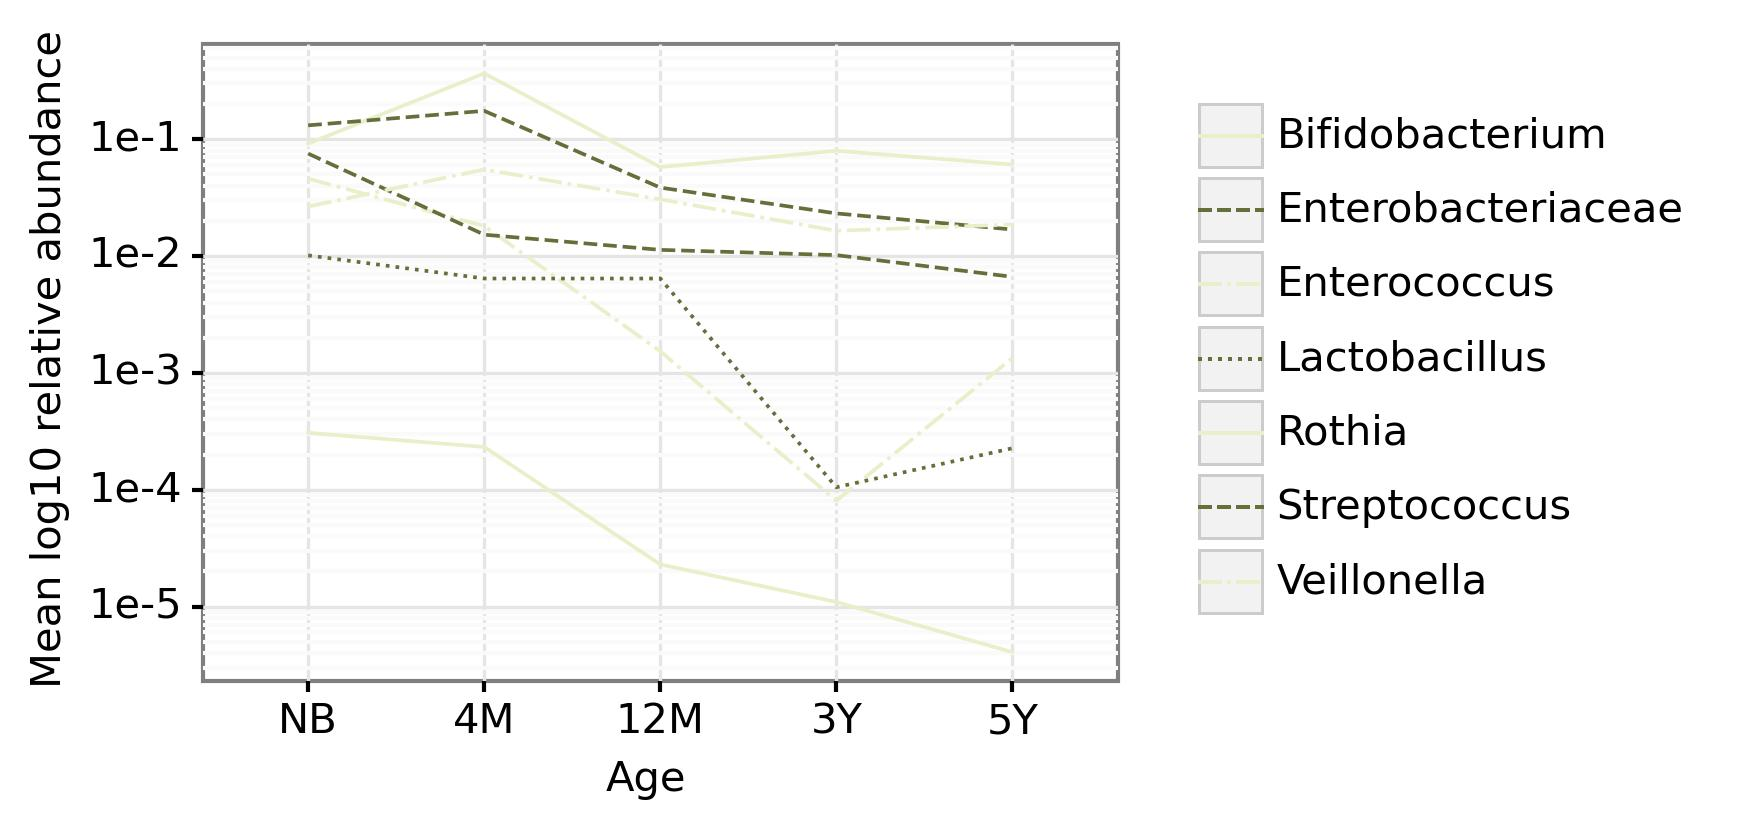
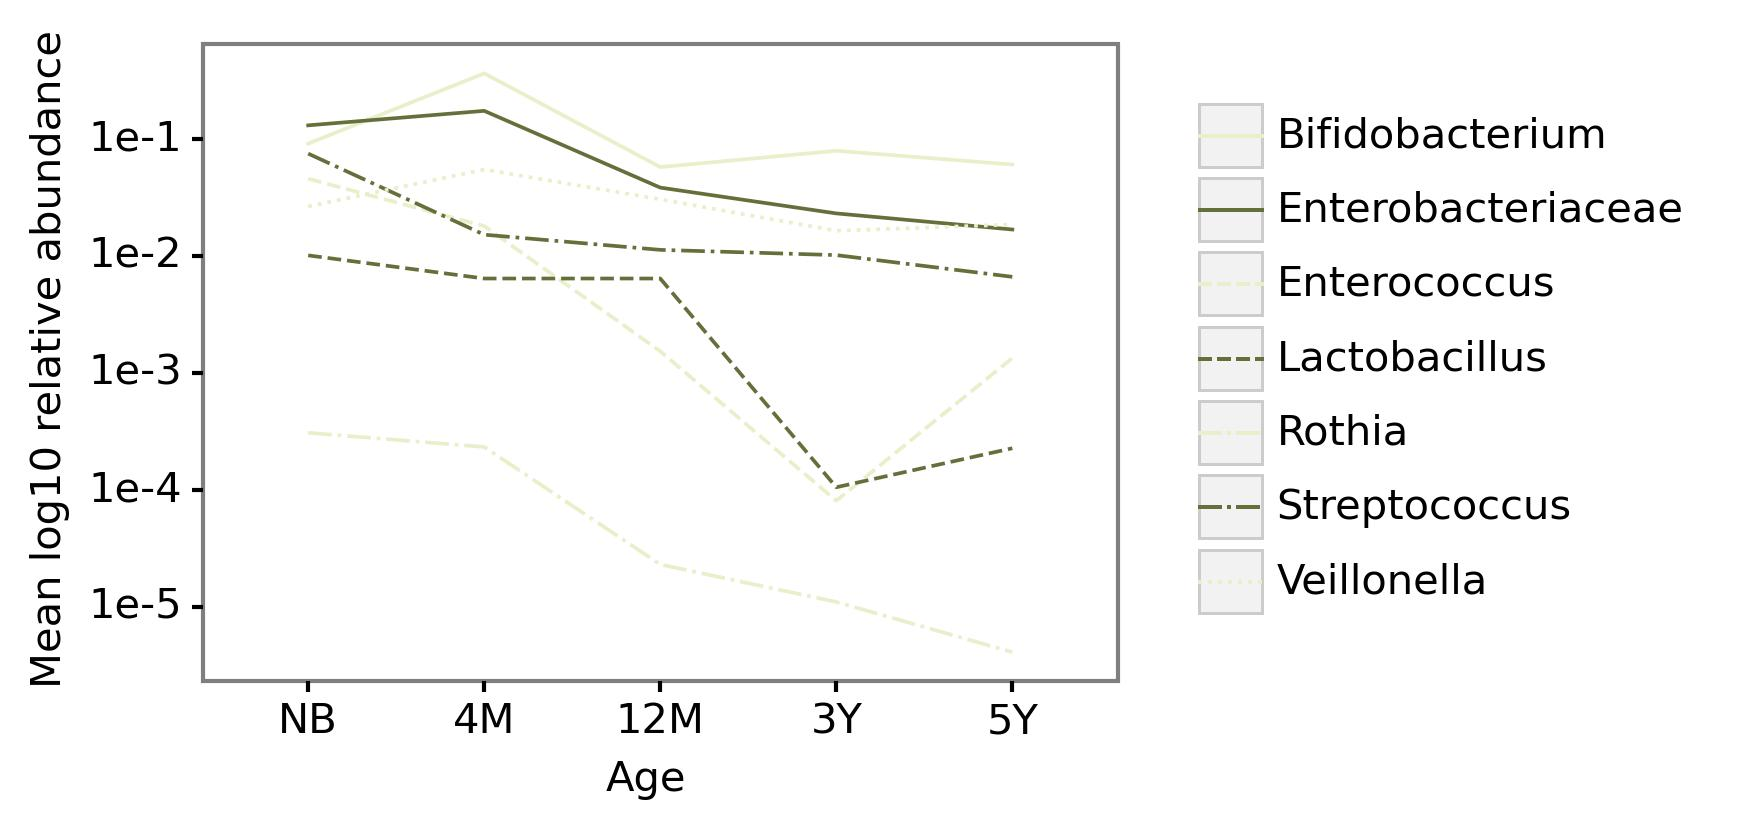
upgrade genera

diff --git a/genera_analysis/genera.py b/genera_analysis/genera.py
@@ -89,13 +89,15 @@ plot_1 = (ggplot(plot_df_1, aes(x = 'Age', y = 'Abundance', linetype = 'index', 
             geom_line() +
             scale_y_log10() +
             scale_color_manual(['#E7F0CA', '#63703C', '#E7F0CA', '#63703C', '#E7F0CA', '#63703C', '#E7F0CA']) +
-            scale_linetype_manual(['-', '--', '-.', ':', '-', '--', '-.']) +
+            scale_linetype_manual(['-', '-', '--', '--', '-.', '-.', ':']) +
             xlim(['NB', '4M', '12M', '3Y', '5Y']) +
             ylab('Mean log10 relative abundance') +
             theme_bw() +
             theme(legend_title = element_blank(),
                     text = element_text(size = 10),
-                    axis_text = element_text(size = 10, color = 'black')))
+                    axis_text = element_text(size = 10, color = 'black'),
+                    panel_grid_major = element_blank(),
+                    panel_grid_minor = element_blank()))
 
 plot_1.save('trajectory_1.jpg', height = 70, width = 100, units = ('mm'), dpi = 300)
 
@@ -104,13 +106,15 @@ plot_2 = (ggplot(plot_df_2, aes(x = 'Age', y = 'Abundance', linetype = 'index', 
             geom_line() +
             scale_y_log10() +
             scale_color_manual(['#706C4B', '#F0E159', '#706C4B', '#F0E159', '#706C4B', '#F0E159', '#706C4B']) +
-            scale_linetype_manual(['-', '--', '-.', ':', '-', '--', '-.']) +
+            scale_linetype_manual(['-', '-', '--', '--', '-.', '-.', ':']) +
             xlim(['NB', '4M', '12M', '3Y', '5Y']) +
             ylab('Mean log10 relative abundance') +
             theme_bw() +
             theme(legend_title = element_blank(),
                     text = element_text(size = 10),
-                    axis_text = element_text(size = 10, color = 'black')))
+                    axis_text = element_text(size = 10, color = 'black'),
+                    panel_grid_major = element_blank(),
+                    panel_grid_minor = element_blank()))
 
 plot_2.save('trajectory_2.jpg', height = 70, width = 100, units = ('mm'), dpi = 300)
 
@@ -119,13 +123,15 @@ plot_3 = (ggplot(plot_df_3, aes(x = 'Age', y = 'Abundance', linetype = 'index', 
             geom_line() +
             scale_y_log10() +
             scale_color_manual(['#57231B', '#DD9287', '#57231B', '#DD9287', '#57231B', '#DD9287', '#57231B']) +
-            scale_linetype_manual(['-', '--', '-.', ':', '-', '--', '-.']) +
+            scale_linetype_manual(['-', '-', '--', '--', '-.', '-.', ':']) +
             xlim(['NB', '4M', '12M', '3Y', '5Y']) +
             ylab('Mean log10 relative abundance') +
             theme_bw() +
             theme(legend_title = element_blank(),
                     text = element_text(size = 10),
-                    axis_text = element_text(size = 10, color = 'black')))
+                    axis_text = element_text(size = 10, color = 'black'),
+                    panel_grid_major = element_blank(),
+                    panel_grid_minor = element_blank()))
 
 plot_3.save('trajectory_3.jpg', height = 70, width = 100, units = ('mm'), dpi = 300)
 
@@ -134,13 +140,15 @@ plot_4 = (ggplot(plot_df_4, aes(x = 'Age', y = 'Abundance', linetype = 'index', 
             geom_line() +
             scale_y_log10() +
             scale_color_manual(['#1C4E57', '#89D0DD', '#1C4E57', '#89D0DD', '#1C4E57', '#89D0DD', '#1C4E57']) +
-            scale_linetype_manual(['-', '--', '-.', ':', '-', '--', '-.']) +
+            scale_linetype_manual(['-', '-', '--', '--', '-.', '-.', ':']) +
             xlim(['NB', '4M', '12M', '3Y', '5Y']) +
             ylab('Mean log10 relative abundance') +
             theme_bw() +
             theme(legend_title = element_blank(),
                     text = element_text(size = 10),
-                    axis_text = element_text(size = 10, color = 'black')))
+                    axis_text = element_text(size = 10, color = 'black'),
+                    panel_grid_major = element_blank(),
+                    panel_grid_minor = element_blank()))
 
 plot_4.save('trajectory_4.jpg', height = 70, width = 100, units = ('mm'), dpi = 300)
 
